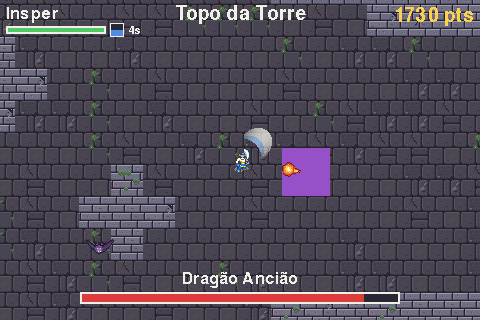
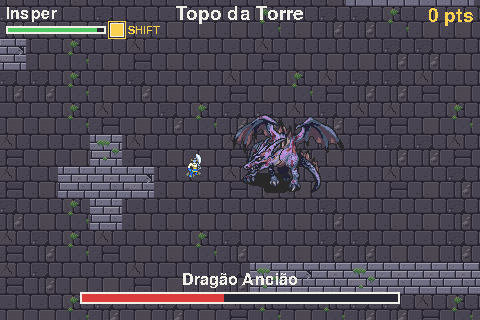
docs: README e arquitetura com a tela de controles, o sprite e o aviso do Dragão
Claude-Session: https://claude.ai/code/session_01QznDWZwqrpvmAwWNAxnVEq

diff --git a/README.md b/README.md
@@ -53,8 +53,10 @@ O arquivo que roda o jogo é o **`src/main.py`**. O jogo abre em tela cheia, com
 | | Backspace | apaga |
 | | Enter | vai para a escolha de classe |
 | Escolha de classe | A / D ou ← / → | trocam a classe |
-| | Enter | começa o jogo |
+| | Enter | vai para a tela de controles |
 | | Esc | volta para a tela inicial |
+| Controles | Enter ou Espaço | começa a partida |
+| | Esc | volta para a escolha de classe |
 | Jogo | W A S D | andar |
 | | Espaço | ataque |
 | | Shift esquerdo | especial |
@@ -72,6 +74,11 @@ O arquivo que roda o jogo é o **`src/main.py`**. O jogo abre em tela cheia, com
 |---|---|
 | ![Tela inicial](docs/imagens/tela_inicial.png) | ![Escolha de classe](docs/imagens/tela_classes.png) |
 | Nome do jogador e as 10 melhores partidas do ranking. | Um cartão por herói, com vida, velocidade, dano e recarga do especial. |
+
+| Controles | Aviso do Dragão |
+|---|---|
+| ![Tela de controles](docs/imagens/tela_controles.png) | ![Dragão piscando vermelho antes do anel de fogo](docs/imagens/jogo_aviso_dragao.png) |
+| Aparece depois de escolher a classe: mostra as teclas para quem nunca jogou. | Na segunda fase, o Dragão pisca vermelho meio segundo antes de soltar o anel de fogo. |
 
 | Jogo | Pausa |
 |---|---|
@@ -102,7 +109,7 @@ Os ataques empurram os inimigos para trás (knockback). Depois de levar dano, o 
 | Morcego | 10 | 5 | 70 | muito rápido; persegue em zigue-zague |
 | Dragão Ancião (chefe) | 360 | 25 | 2000 | 2 fases; contorna as paredes até o herói e cospe fogo |
 
-O Dragão tem duas fases. Na primeira, anda devagar e cospe uma bola de fogo quando o herói chega perto. Com metade da vida, entra na segunda fase: anda na velocidade cheia e solta um anel de 12 bolas de fogo a cada 3 segundos. Para chegar ao herói sem ficar preso nas paredes, ele faz uma busca em largura pela grade do mapa.
+O Dragão tem duas fases. Na primeira, anda devagar e cospe uma bola de fogo quando o herói chega perto. Com metade da vida, entra na segunda fase: anda na velocidade cheia e solta um anel de 12 bolas de fogo a cada 3 segundos. Meio segundo antes de cada anel, ele **pisca vermelho**, para o jogador ter tempo de se afastar. Para chegar ao herói sem ficar preso nas paredes, ele faz uma busca em largura pela grade do mapa.
 
 Cada inimigo comum derrotado tem 30% de chance de deixar uma **poção de vida**, que devolve 25 de vida.
 
@@ -156,6 +163,8 @@ O objetivo da atividade era **aprender o máximo possível**, então cada um con
 As ideias do jogo vieram do Thiago, e ele cuidou da parte artística: o visual, os heróis, os andares e o jeito de cada inimigo se mexer.
 
 - Desenhou os **sprites dos três heróis** (`mago.png`, `arqueiro.png`, `barbaro.png`) e deu ao jogo o suporte a sprites.
+- Desenhou o **sprite do Dragão Ancião** (`dragao.png`), corrigiu o sprite do Mago e fez o **aviso vermelho** antes do anel de fogo.
+- Criou a **tela de controles**, que mostra as teclas antes da partida.
 - Fez os **mapas da Biblioteca e do Topo da Torre**.
 - Criou a **tela de escolha de classe**, com os cartões dos heróis, e a **tela inicial** com o campo do nome.
 - Programou o **zigue-zague do morcego** e as **decisões do Dragão** (as duas fases do chefe).
@@ -176,10 +185,11 @@ O Matheus cuidou das mecânicas, isto é, das regras que fazem o jogo funcionar.
 
 O Audrei, por ser o programador mais experiente do grupo, acabou entregando mais código. Mas a ideia sempre foi que os outros aprendessem junto, e por isso ele atuou como **organizador do projeto**: escreveu as issues e as tasks de um jeito que cada um soubesse exatamente o que fazer, e revisou os Pull Requests.
 
-- Desenhou a **arquitetura** e montou o **backlog**: 79 tasks no GitHub, com issues, quadro do Project, milestones e prazos.
+- Desenhou a **arquitetura** e montou o **backlog**: 79 tasks no GitHub, mais 6 de polimento no fim, com issues, quadro do Project, milestones e prazos.
 - Implementou o núcleo do jogo: a **aplicação** e o loop, o **mapa**, o **personagem**, o **nível**, o **combate** e a **IA de perseguição**.
 - Fez a **simplificação do código** pedida pelo professor (veja [Decisões que tomamos](#decisões-que-tomamos)).
 - Fez o **tocador de som**, a **tela de resultado**, as **vitórias e derrotas** e a passagem de andar.
+- Escreveu as **docstrings** de todos os arquivos, classes e funções.
 - Cuidou do **balanceamento** e do acabamento final: tiles, poção, knockback, animações dos inimigos e dos golpes, porta de saída e tela cheia.
 
 ---
@@ -188,7 +198,7 @@ O Audrei, por ser o programador mais experiente do grupo, acabou entregando mais
 
 ### Planejamento
 
-O jogo foi quebrado em **79 tasks** (T01 a T79), somando **228 story points**. Cada task virou uma **issue no GitHub** e um card no Project "Backlog The Legend Of Insper", com story points, prioridade, data de início e prazo.
+O jogo foi quebrado em **79 tasks** (T01 a T79), somando **228 story points**. Na última semana entraram mais 6 tasks de polimento (T80 a T85), como o sprite do Dragão, o aviso antes do anel de fogo e a tela de controles. Cada task virou uma **issue no GitHub** e um card no Project "Backlog The Legend Of Insper", com story points, prioridade, data de início e prazo.
 
 Toda issue seguia o mesmo modelo:
 
@@ -310,6 +320,8 @@ E, por fim, os inimigos animados, os golpes, a porta e a poção. O esqueleto pa
 | 15/11 a 16/11 | Quadro de vida no HUD, zigue-zague do morcego, decisões do Dragão e suporte a sprites. |
 | 17/11 | Sprites dos heróis, tiles de 32 pixels com pedra e biblioteca, música em cada tela, mapas compactos e o primeiro balanceamento. |
 | 18/11 | Efeitos sonoros ligados, ícone do especial no HUD, poção de vida, knockback, sprites animados dos inimigos, flecha e bola de fogo, animação dos golpes do Bárbaro, porta de saída, tela cheia e ajustes no Mago e no Dragão. |
+| 19/11 a 20/11 | Tasks de polimento (T80 a T85) e README da entrega. |
+| 21/11 | Sprite do Dragão, aviso vermelho antes do anel de fogo, correção do sprite do Mago, tela de controles e docstrings em todo o código. |
 
 O histórico completo está nos [commits](https://github.com/Dsoft-Pygame/The_Legend_of_Insper/commits/main) e nos [Pull Requests](https://github.com/Dsoft-Pygame/The_Legend_of_Insper/pulls?q=is%3Apr) do repositório.
 
@@ -344,7 +356,7 @@ src/
 ├── aplicacao.py         janela, loop principal e troca de tela
 ├── sons.py              toca os efeitos e as músicas pelo nome
 ├── ui.py                texto, caixa do nome, quadro do ranking e barras
-├── telas/               tela inicial, escolha de classe, jogo e resultado
+├── telas/               tela inicial, escolha de classe, controles, jogo e resultado
 ├── jogo/                mapa, câmera, nível, pontuação e ranking
 ├── personagens/         entidade, personagem, heróis, inimigos, projéteis e poção
 ├── assets/              sprites, tiles e sons
@@ -354,7 +366,7 @@ src/
 ```
 
 ```
-Tela                      TelaInicial, TelaClasses, TelaJogo, TelaResultado
+Tela                      TelaInicial, TelaClasses, TelaControles, TelaJogo, TelaResultado
 Entidade
 ├── Personagem
 │   ├── Heroi             Mago, Arqueiro, Barbaro
@@ -364,13 +376,15 @@ Entidade
 └── Pocao
 ```
 
+Todo arquivo, classe e função tem uma **docstring** curta em português explicando o que faz.
+
 A explicação completa, com o que acontece em cada quadro, está em [docs/ARQUITETURA.md](docs/ARQUITETURA.md).
 
 ---
 
 ## Créditos
 
-- **Sprites dos heróis** (`src/assets/mago.png`, `arqueiro.png` e `barbaro.png`): Thiago A. Gomes.
+- **Sprites dos heróis e do Dragão** (`src/assets/mago.png`, `arqueiro.png`, `barbaro.png` e `dragao.png`): Thiago A. Gomes.
 - **Sons e músicas** (`src/assets/sons/`): gerados por código pelo Claude (assistente de IA da Anthropic) a pedido do grupo. Detalhes em [`src/assets/sons/CREDITOS.md`](src/assets/sons/CREDITOS.md).
 - **Flecha, bola de fogo, poção, porta de saída, animações do slime, do morcego e do esqueleto, e os golpes do Bárbaro:** feitos pelo Claude (assistente de IA da Anthropic) a pedido do grupo.
 - **Tiles de chão e parede** (`src/assets/tiles/`): pedra (Térreo e Topo da Torre) e biblioteca, 4 variantes de cada.

diff --git a/docs/ARQUITETURA.md b/docs/ARQUITETURA.md
@@ -13,10 +13,10 @@ A `Aplicacao` (`src/aplicacao.py`) abre a janela e roda o loop a 60 quadros por 
 As telas não importam umas às outras. Para trocar, uma tela pede `self.aplicacao.trocar_tela("nome")`, e a `Aplicacao` cria a tela nova:
 
 ```
-inicial ──Enter──> classes ──Enter──> jogo ──chefe derrotado ou herói sem vida──> resultado
-   ^                  │                                                               │
-   ├──────Esc─────────┘                                                               │
-   └──────────────────────────────Enter (ou 20 s parada)─────────────────────────────┘
+inicial ──Enter──> classes ──Enter──> controles ──Enter──> jogo ──chefe derrotado ou herói sem vida──> resultado
+   ^                │   ^                 │                                                                 │
+   ├─────Esc────────┘   └──────Esc────────┘                                                                 │
+   └────────────────────────────────────────Enter (ou 20 s parada)──────────────────────────────────────────┘
 ```
 
 O que passa de uma tela para outra fica guardado na `Aplicacao`: o nome digitado na TelaInicial, o `heroi` escolhido na TelaClasses, a `pontuacao` e o resultado da partida, e o `ranking`, lido do arquivo quando o jogo abre.
@@ -27,6 +27,7 @@ O que passa de uma tela para outra fica guardado na `Aplicacao`: o nome digitado
 Tela                      telas/tela.py: tratar_evento, atualizar e desenhar vazios
 ├── TelaInicial           título, nome do jogador e ranking; Enter vai para a escolha de classe
 ├── TelaClasses           Mago, Arqueiro ou Bárbaro
+├── TelaControles         as teclas do jogo, antes da partida; Enter começa e Esc volta para a escolha de classe
 ├── TelaJogo              o nível, os ataques, a câmera, o HUD, a pausa e a troca de andar
 └── TelaResultado         vitória ou derrota, extrato dos pontos e ranking
 
@@ -40,7 +41,7 @@ Entidade                  posição, tamanho, cor, retangulo() e desenhar()
 │       ├── Slime         só muda os números e quica
 │       ├── Esqueleto     só muda os números
 │       ├── Morcego       persegue em zigue-zague
-│       └── Dragao        2 fases, bola e anel de fogo; contorna as paredes até o herói (Mapa.proximo_passo)
+│       └── Dragao        2 fases, bola e anel de fogo (pisca vermelho 0,5 s antes do anel); contorna as paredes até o herói (Mapa.proximo_passo)
 ├── Projetil              anda, some na parede ou quando o tempo acaba; dono "heroi" ou "inimigo"
 │   └── Golpe             corpo a corpo: fica parado e troca bateu_na_parede(); o giro atravessa inimigos, mas nenhum golpe passa parede
 └── Pocao                 poção de vida que cai dos inimigos
@@ -103,4 +104,4 @@ O `Ranking` guarda cada partida como um dicionário (nome, classe, pontos, vence
 - Nada de `raise` ou `try`. Quando precisar conferir algo, um `if`.
 - Os números do jogo ficam no `__init__` da classe ou no `settings.py`.
 - Tudo que anda usa `velocidade * dt`, com `dt` em segundos.
-- Docstring de 1 a 3 linhas por classe e comentários curtos em português.
+- Docstring de 1 a 3 linhas em todo arquivo, classe e função, e comentários curtos em português.
